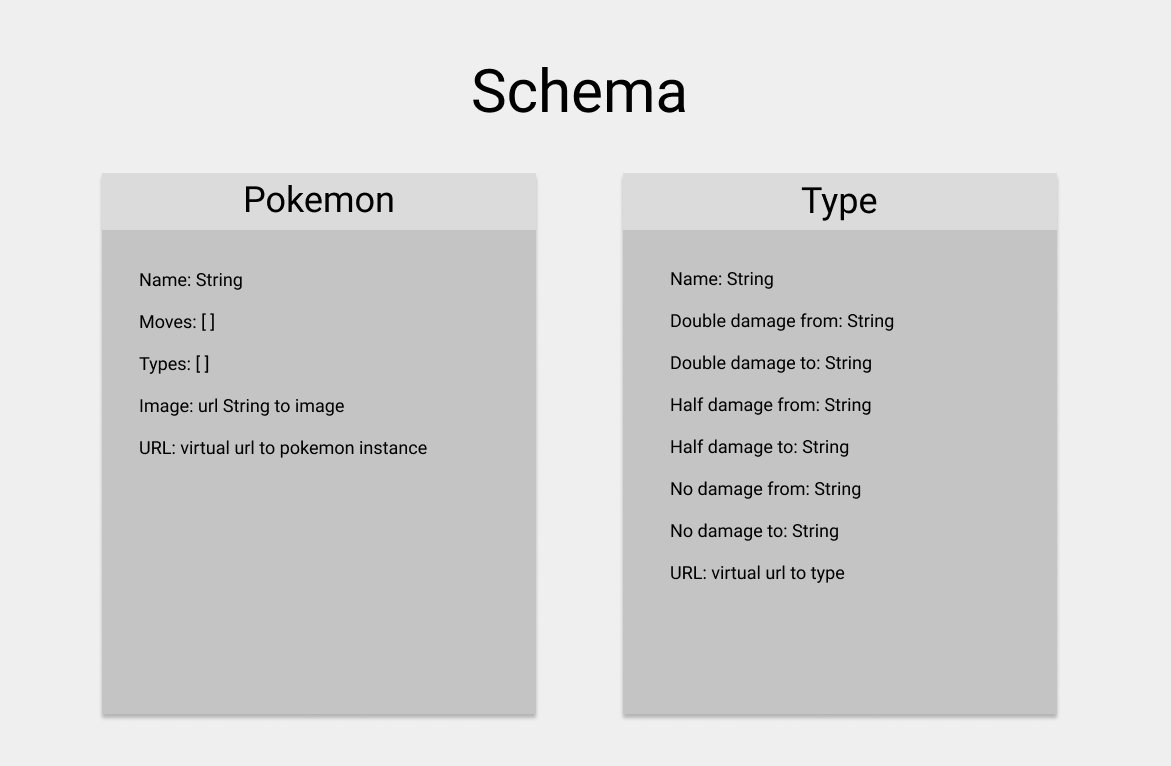
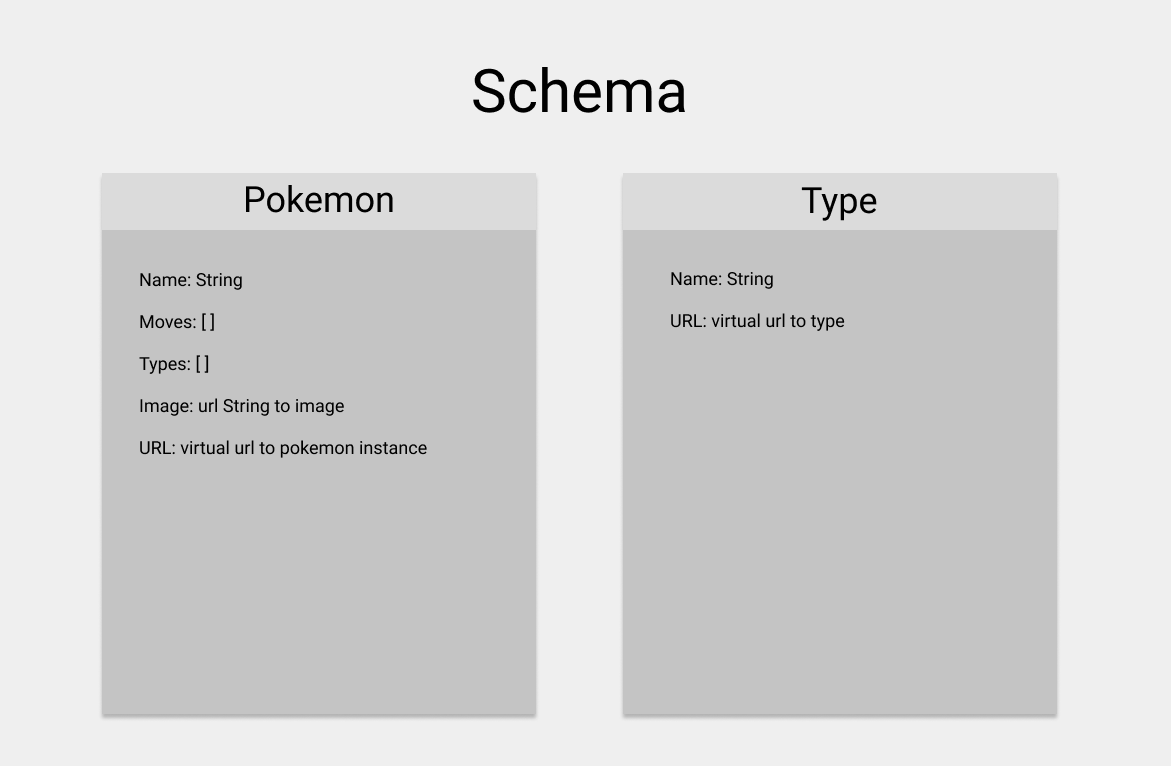
types schema boilerplate complete

diff --git a/app.js b/app.js
@@ -5,7 +5,6 @@ const winston = require('winston');
 const express = require('express');
 const morgan = require('morgan');
 const path = require('path');
-const Pokemon = require(path.join(__dirname, '/models/pokemon'));
 require('dotenv').config();
 
 const indexRouter = require('./routes/index');
@@ -17,39 +16,12 @@ app.set('views', path.join(__dirname, 'views'));
 app.set('view engine', 'pug');
 
 // mongo connection
-const MONGO_STRING = `mongodb+srv://spencer:${process.env.DB_PASSWORD}@${process.env.DB}.zvgww.mongodb.net/pokeInventory?retryWrites=true&w=majority`;
-mongoose.connect(MONGO_STRING, {
+
+mongoose.connect(process.env.MONGO_STRING, {
   useNewUrlParser: true,
   useUnifiedTopology: true,
 });
 var db = mongoose.connection;
-
-var pokemon = new Pokemon({
-  name: 'spencer',
-  types: [
-    'one',
-    'two',
-    'three',
-    'four',
-    'five',
-    'six',
-    'seven',
-    'eight',
-    'nine',
-    'ten',
-    '11',
-  ],
-});
-
-pokemon.save(function (err) {
-  if (err) {
-    console.log(err);
-  } else {
-    console.log('success');
-  }
-
-  //successful - redirect to new book record.
-});
 
 app.use(morgan('dev'));
 app.use(express.json());

diff --git a/models/type.js b/models/type.js
@@ -1,0 +1,14 @@
+const mongoose = require('mongoose');
+
+const Schema = mongoose.Schema;
+
+const TypesSchema = new Schema({
+  name: { type: String, required: true, maxLength: 20 },
+});
+
+// Virtual for author's URL
+TypesSchema.virtual('url').get(function () {
+  return '/type/' + this._id;
+});
+
+module.exports = mongoose.model('Types', TypesSchema);

diff --git a/models/pokemon.js b/models/pokemon.js
@@ -10,11 +10,8 @@ const PokemonSchema = new Schema({
       ref: 'Type',
     },
   ],
-  moves: [
-    {
-      type: String,
-    },
-  ],
+  moves: [String],
+  image: String,
 });
 
 // Virtual for author's URL

diff --git a/README.md b/README.md
@@ -1,4 +1,4 @@
-## poke inventory
+# poke inventory
 
 #### schema
 
